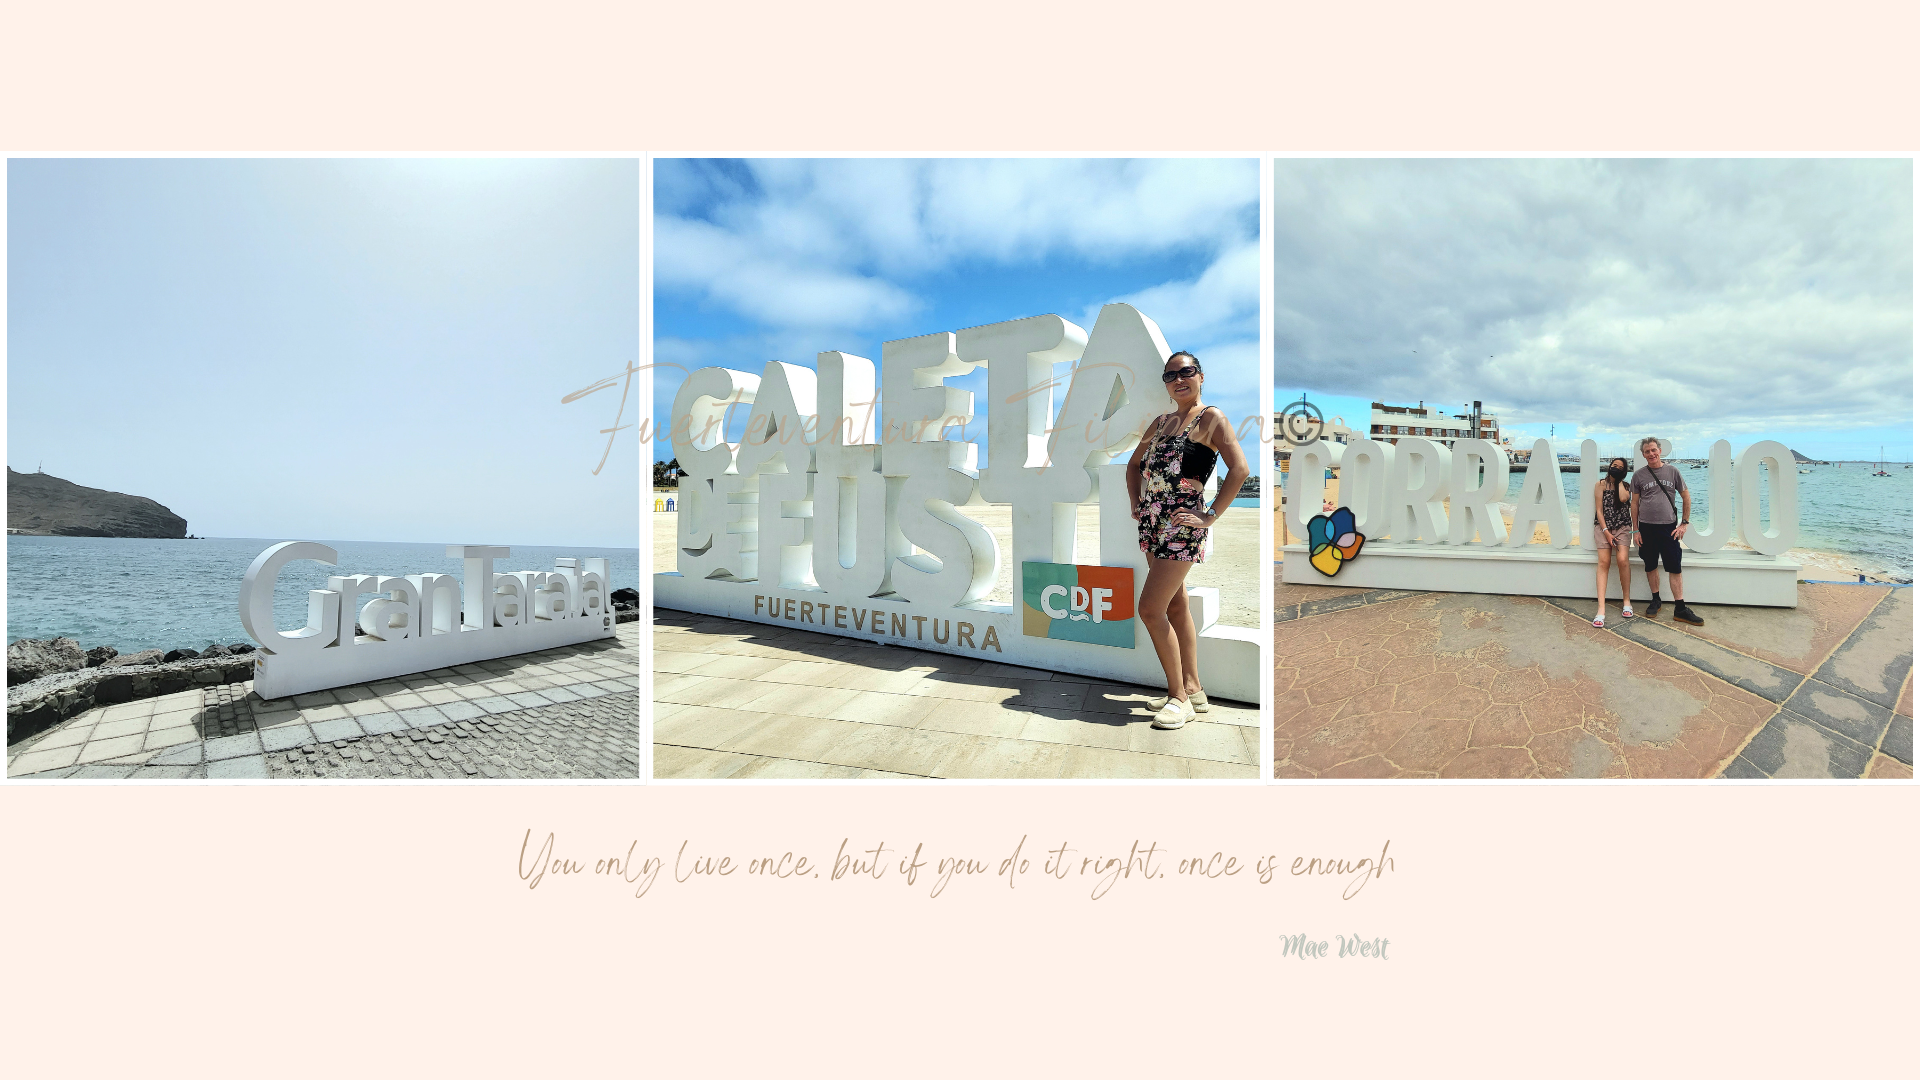
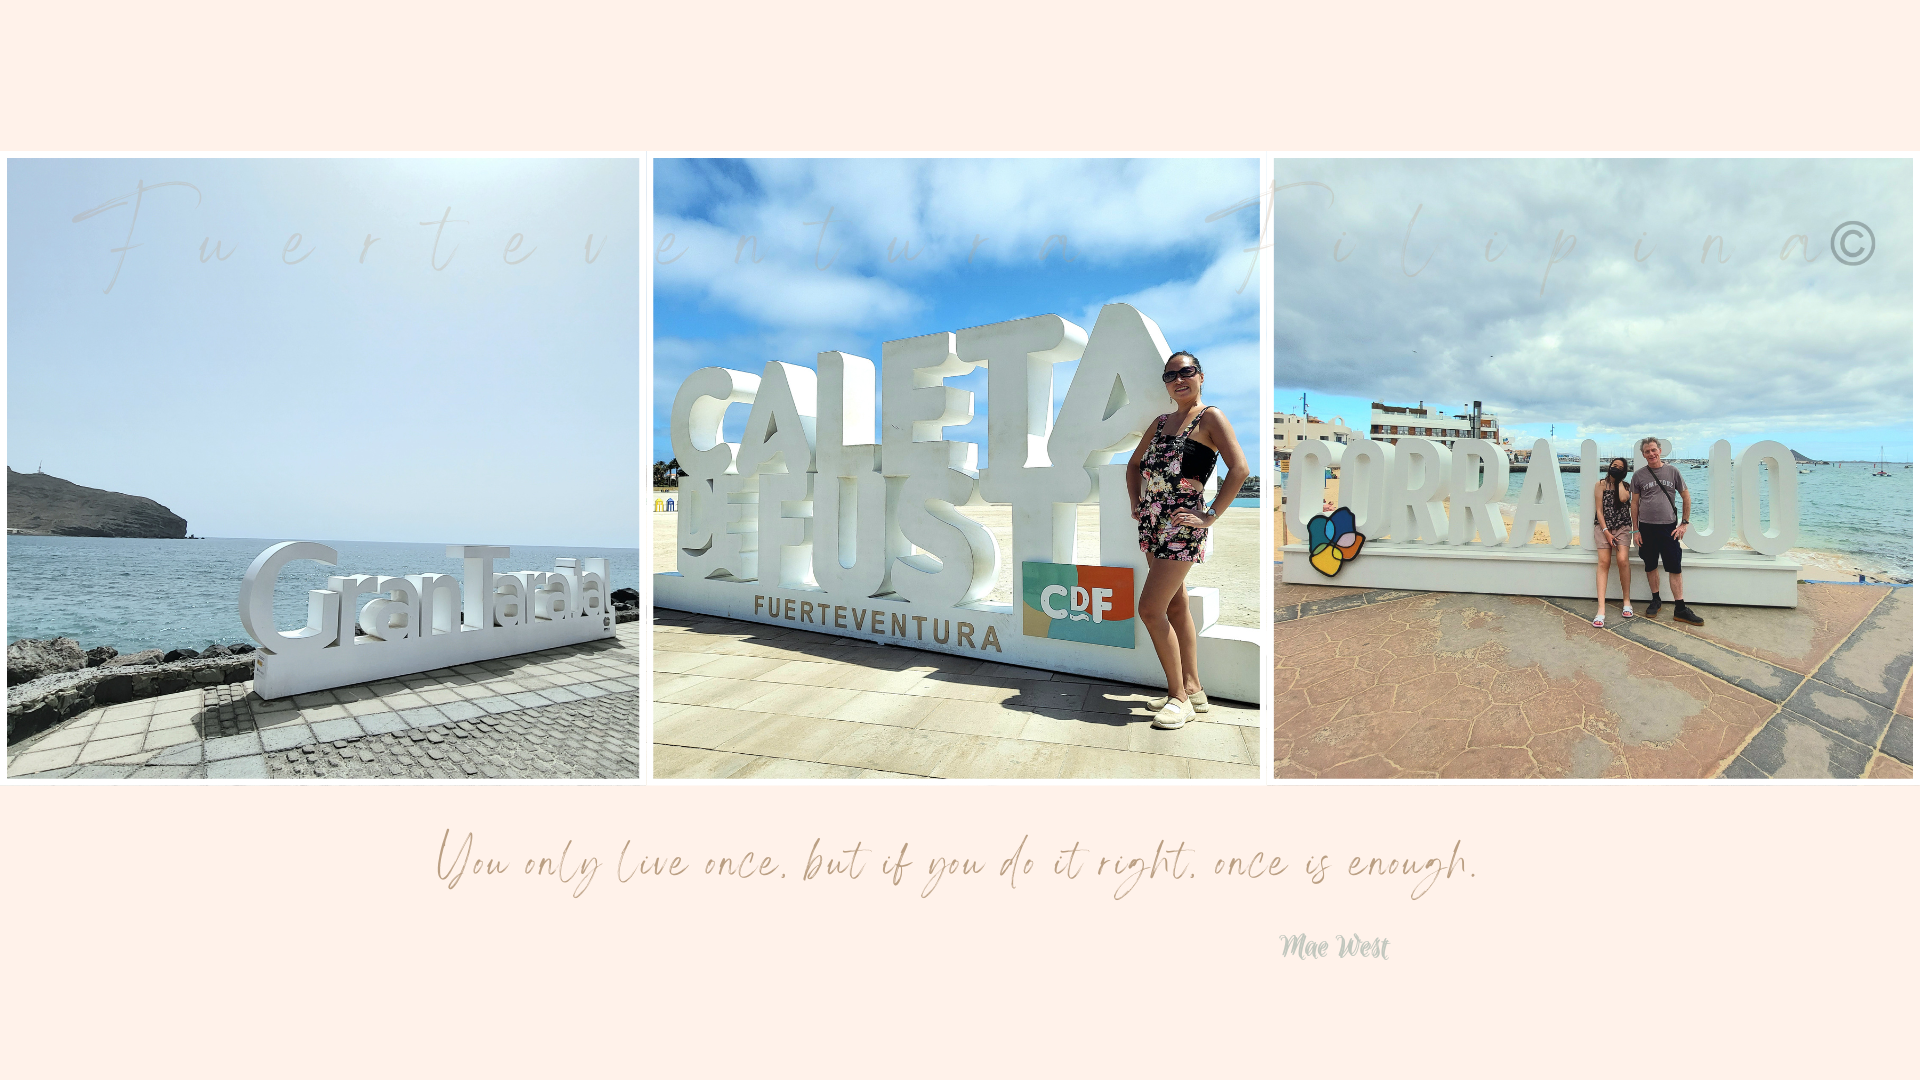
new images

diff --git a/fuerteventurahub.html b/fuerteventurahub.html
@@ -66,7 +66,7 @@
                 <div class="statement-container">
                     <p>Hi! Welcome to Fuerteventura Filipina! <br>
                     I'm Grace, a NON-EU National and along with my husband Dan, an EU National (Irish Citizen)<br>
-                    we have created this blog to document our journey of permanently relocating to Fuerteventura.<br>
+                    we have created this blog to document our journey to permanently relocating to Fuerteventura.<br>
                     We hope to help others who are looking into going through the same venture by sharing our own experiences on the process<br>
                     and step by step guide of moving to this paradise Canarian island.<br><br>
                     <a href="#about">Find Out More About Us</a>
@@ -74,6 +74,7 @@
                 </div>
             </div>
 
+            <div class="empty-div1"></div>
             <div class="empty-div1"></div>
             
             <!--PROJECTS-->
@@ -119,7 +120,7 @@
 
             <div class="statement-box">
                 <div class="statement-container">
-                    <p>Statement 2<br>
+                    <p>During our multiple trips to the island, we have discovered some really notable restaurants and bars that we just keep coming back to everytime we visit. Check out some of favourites below.<br>
                     </p>
                 </div>
             </div>
@@ -127,37 +128,37 @@
 
             <!--PROJECTS-->
             <div class="project-section">
-                <h2 id="projects">My Go To <span>Sports Bars</span></h2>
+                <h2 id="projects">Our Go To <span>Sports Bars & Restaurants</span></h2>
                 <div class="responsive" data-aos="slide-up"  data-aos-once="false" data-aos-duration="1500">
                     <div class="gallery">
-                    <a target="_blank" href="https://grace-gardner.github.io/beautyboxbykirsten">
-                        <img src="img/Kirsten1.png" alt="beautybox" width="600" height="400">
+                    <a target="" href="">
+                        <img src="img/oconnors.jpg" alt="" width="600" height="400">
                     </a>
-                    <div class="desc">Add a description of the image here</div>
+                    <div class="desc">O'Connor's - Caleta De Fuste</div>
                     </div>
                 </div>
                 <div class="responsive" data-aos="slide-up"  data-aos-once="false" data-aos-duration="1500">
                     <div class="gallery">
-                    <a target="_blank" href="https://grace-gardner.github.io/gusabarquez">
-                        <img src="img/Gus1.png" alt="gusabarquez" width="600" height="400">
+                    <a target="" href="">
+                        <img src="img/Nestors5.png" alt="" width="600" height="400">
                     </a>
-                    <div class="desc">Add a description of the image here</div>
+                    <div class="desc">Nestor's - Caleta De Fuste</div>
                     </div>
                 </div>
                 <div class="responsive" data-aos="slide-up"  data-aos-once="false" data-aos-duration="1500">
                     <div class="gallery">
-                    <a target="_blank" href="#">
-                        <img src="img/sugarfree.png" alt="sugarfree" width="600" height="400">
+                    <a target="" href="">
+                        <img src="img/Smileterraza5.png" alt="" width="600" height="400">
                     </a>
-                    <div class="desc">Add a description of the image here</div>
+                    <div class="desc">Smile Terraza - Caleta De Fuste</div>
                     </div>
                 </div>
                 <div class="responsive" data-aos="slide-up"  data-aos-once="false" data-aos-duration="1500">
                     <div class="gallery">
-                    <a target="_blank" href="https://grace-gardner.github.io/joflowers">
-                        <img src="img/jo_logo.png" alt="joowens" width="600" height="400">
+                    <a target="" href="">
+                        <img src="img/ollie2.jpg" alt="" width="600" height="400">
                     </a>
-                    <div class="desc">Add a description of the image here</div>
+                    <div class="desc">Smokehouse - Caleta De Fuste</div>
                     </div>
                 </div>
                 <div class="clearfix"></div>
@@ -165,44 +166,38 @@
 
             <div class="empty-div1"></div>
 
-            <div class="statement-box">
-                <div class="statement-container">
-                    <p>Statement 3<br>
-                    </p>
-                </div>
-            </div>
 
             <!--PROJECTS-->
             <div class="project-section">
                 <h2 id="projects">Must See <span>Live Music</span></h2>
-                <div class="responsive" data-aos="slide-up"  data-aos-once="false" data-aos-duration="1500">
+                <div class="responsive">
                     <div class="gallery">
-                    <a target="_blank" href="https://grace-gardner.github.io/beautyboxbykirsten">
-                        <img src="img/Kirsten1.png" alt="beautybox" width="600" height="400">
+                    <a target="" href="">
+                        <img src="img/Gus1.png" alt="" width="600" height="400">
+                    </a>
+                    <div class="desc">Gus Abarquez - Rock Island, Corralejo</div>
+                    </div>
+                </div>
+                <div class="responsive">
+                    <div class="gallery">
+                    <a target="" href="">
+                        <img src="img/Coming Soon.png" alt="" width="600" height="400">
                     </a>
                     <div class="desc">Add a description of the image here</div>
                     </div>
                 </div>
-                <div class="responsive" data-aos="slide-up"  data-aos-once="false" data-aos-duration="1500">
+                <div class="responsive">
                     <div class="gallery">
-                    <a target="_blank" href="https://grace-gardner.github.io/gusabarquez">
-                        <img src="img/Gus1.png" alt="gusabarquez" width="600" height="400">
+                    <a target="" href="#">
+                        <img src="img/Coming Soon.png" alt="" width="600" height="400">
                     </a>
                     <div class="desc">Add a description of the image here</div>
                     </div>
                 </div>
-                <div class="responsive" data-aos="slide-up"  data-aos-once="false" data-aos-duration="1500">
+                <div class="responsive">
                     <div class="gallery">
-                    <a target="_blank" href="#">
-                        <img src="img/sugarfree.png" alt="sugarfree" width="600" height="400">
-                    </a>
-                    <div class="desc">Add a description of the image here</div>
-                    </div>
-                </div>
-                <div class="responsive" data-aos="slide-up"  data-aos-once="false" data-aos-duration="1500">
-                    <div class="gallery">
-                    <a target="_blank" href="https://grace-gardner.github.io/joflowers">
-                        <img src="img/jo_logo.png" alt="joowens" width="600" height="400">
+                    <a target="" href="">
+                        <img src="img/Coming Soon.png" alt="" width="600" height="400">
                     </a>
                     <div class="desc">Add a description of the image here</div>
                     </div>
@@ -220,7 +215,7 @@
             </div>
             
 
-            
+            <div class="empty-div1"></div>
 
             <!--ABOUT-->
             <h2 id="about">About</h2>
@@ -228,19 +223,23 @@
                 <div class="about">
                     <img src="img/grace1.jpg" alt="">
                     <div>
-                        <p data-aos="slide-right"  data-aos-once="false" data-aos-duration="1500">Lorem ipsum dolor sit amet consectetur adipisicing elit.</p><br> 
+                        <p>Lorem ipsum dolor sit amet consectetur adipisicing elit. <br>Lorem ipsum dolor sit amet consectetur adipisicing elit. <br> Odio necessitatibus in soluta rem asperiores dolorem, aliquam corrupti quaerat <br> aliquid excepturi modi pariatur iste saepe porro itaque? Aspernatur amet soluta optio.</p><br> 
                     </div>  
                 </div>
-                <span>Image by <a href="https://pixabay.com/users/mih83-464187/?utm_source=link-attribution&utm_medium=referral&utm_campaign=image&utm_content=1824828">M. H.</a> from <a href="https://pixabay.com//?utm_source=link-attribution&utm_medium=referral&utm_campaign=image&utm_content=1824828">Pixabay</a></span>
             </div><!--ABOUT SECTION ENDS HERE-->
+
+
+            
+            <div class="empty-div1"></div>
 
 
             <!--CONTACT-->
             <h2 id="contact">Contact</h2>
             <div class="contact">
-                <a href="#"><i class="fa-brands fa-facebook-f"></i></a>
-                <p>If you would like more information or if you are a freelancer/small business owner in Fuerteventura and would like a basic webpage to be featured on my website, please get in touch</p>
-                <a href="#"><i class="fa-brands fa-instagram"></i></a>   
+                <p>Follow us on Social Media for the latest blogs, updates, photos, videos and more.</p>
+                <a href="" target=""><i class="fa-brands fa-facebook-f"></i></a>
+                <a href="" target=""><i class="fa-brands fa-instagram"></i></a>
+                <a href="" target=""><i class="fa-brands fa-youtube"></i></a>   
             </div><!--CONTACT SECTION ENDS HERE-->
 
             <div class="arrow-up">
@@ -250,7 +249,7 @@
             <footer>
                 <div class="footer">
                     <hr>
-                    <p>Fuerteventura Hub &copy;2024</p>
+                    <p>FuerteventuraFilipina &copy;2024</p>
                 </div>
             </footer>
             <!--FOOTER ENDS HERE-->

diff --git a/css/fuerteventura.css b/css/fuerteventura.css
@@ -281,6 +281,7 @@ nav a:hover{
 
 div.gallery {
     border: 1px solid #ccc;
+    background-color: rgb(158, 122, 87);
   }
   
   div.gallery:hover {
@@ -296,6 +297,7 @@ div.gallery {
   }
   
   div.desc {
+    color: white;
     padding: 15px;
     text-align: center;
     background-color: rgb(158, 122, 87);
@@ -320,7 +322,7 @@ div.gallery {
   
   @media only screen and (max-width: 700px) {
     .responsive {
-      width: 49.99999%;
+      width: 100%; /*49.99999%*/
       margin: 6px 0;
     }
   }
@@ -347,21 +349,22 @@ div.gallery {
     display: flex;
     justify-content: center;
     align-items: center;
-    background-color: white;
-    background-image: url(../img/newspaper.jpg);
-    background-repeat: repeat;
-    background-size: cover;
+    background-color: rgb(241, 237, 231);
+    background-image: url(../img/bio_background.png);
+    background-repeat: no-repeat;
+    background-position: center;
+    background-size: contain;
     background-attachment: fixed;
     background-blend-mode: multiply;
-    border: 1px solid slategrey;
-    box-shadow: 1rem 1rem 5rem rgba(0, 0, 0, 1);
+    border: 0px solid slategrey;
+    box-shadow: 3rem 1rem 3rem rgba(0, 0, 0, 1);
     
 
 }
 .about img{
     width: 150px;
     height: auto;
-    border-radius: 50%;
+    border-radius: 55%;
     opacity: 0.7;
     text-align: center;
     padding-top: 10px; 
@@ -371,10 +374,11 @@ div.gallery {
 
 .about p{
     text-align: center;
-    font-size: 13px;
-    color: white;
+    font-size: 11.5px;
+    color: rgb(17, 19, 22);
     font-weight: bold;
-    padding-left: 13px;   
+    padding-left: 13px; 
+    padding-right: 13px;  
 }
 
 #about span{
@@ -386,6 +390,9 @@ div.gallery {
     text-decoration: none;
     font-size: 5px;
 }/*END OF ABOUT SECTION*/
+
+
+
 
 /*CONTACT SECTION*/
 .contact{
@@ -414,7 +421,7 @@ div.gallery {
     padding-top: 7px;
     font-size: 22px;
     color: slategrey;
-    border: 1px solid wheat;
+    
     
     
 }
@@ -439,6 +446,11 @@ div.gallery {
 .arrow-up i{
     padding-right: 5px;
 }
+
+
+
+
+
 
 
 

diff --git a/css/ff.css b/css/ff.css
@@ -157,30 +157,30 @@ nav a:hover{
 .header-slideshow{
     height: 100vh;
     width: 100vw;
-    background: url(../img/bio1.png);
+    background: url(../img/caleta.jpg);
     background-size: cover;
     background-position: center;
     background-repeat: no-repeat;
-    animation: headerslide 20s infinite;
+    animation: headerslide 20s infinite ease-in forwards;
 }
 
 @keyframes headerslide{
     25%{
-        background: url(../img/corralejo.jpg);
+        background: url(../img/gran_tarajal.jpg);
         background-size: cover;
         background-position: center;
         background-repeat: no-repeat;
     }
 
     50%{
-        background: url(../img/caleta.jpg);
+        background: url(../img/corralejo.jpg);
         background-size: cover;
         background-position: center;
         background-repeat: no-repeat;
     }
 
     75%{
-        background: url(../img/grantarajal.jpg);
+        background: url(../img/sliderimage1.jpg);
         background-size: cover;
         background-position: center;
         background-repeat: no-repeat;

diff --git a/fuerteventurafilipina.html b/fuerteventurafilipina.html
@@ -82,7 +82,7 @@
         
         <section class="wrapper" id="places">
             <div class="places">
-                <img src="img/placestovisit.png" alt="">
+                <img src="img/you_only_live_once.png" alt="">
             </div>
         </section>
         
